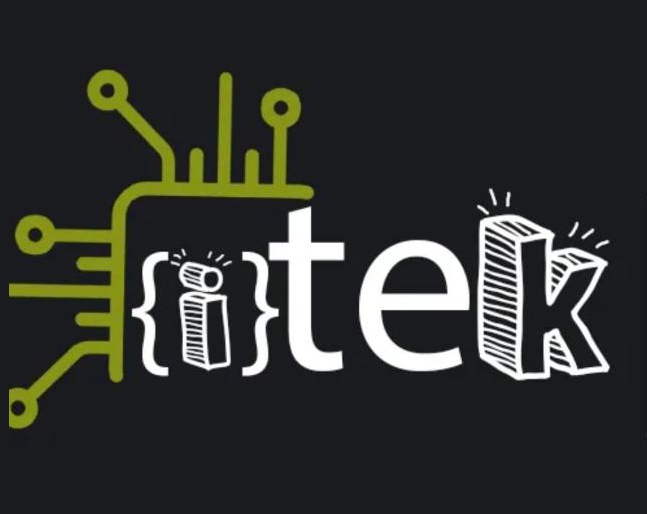
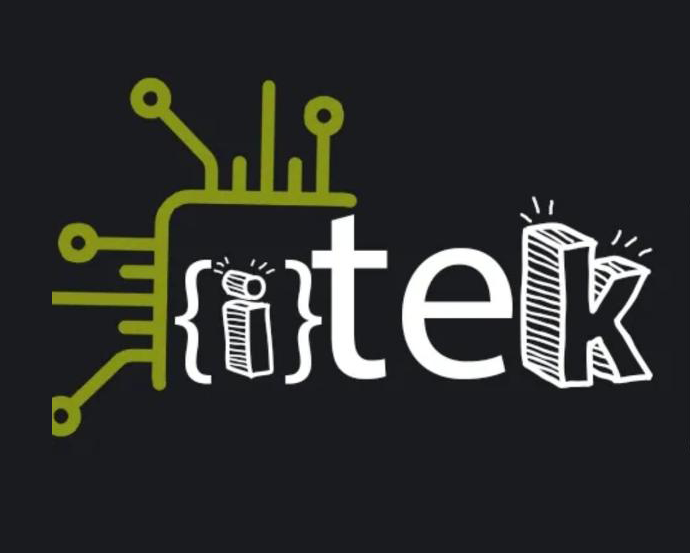
Add files via upload

Changed region(s): [[0.0, 0.1245, 0.9583, 0.8405]]

diff --git a/index.html b/index.html
@@ -22,7 +22,7 @@
 
 							<!-- Logo -->
 								<a href="index.html" class="logo">
-									<span class="symbol"><img src="images/banneritek.png" alt="" /></span><span class="title">Itek</span>
+									<span class="symbol" ><img src="images/banneritek.png"  alt="" /></span>
 								</a>
 
 							<!-- Nav -->
@@ -39,11 +39,7 @@
 					<nav id="menu">
 						<h2>Menu</h2>
 						<ul>
-							<li><a href="index.html">Home</a></li>
-							<li><a href="generic.html">Ipsum veroeros</a></li>
-							<li><a href="generic.html">Tempus etiam</a></li>
-							<li><a href="generic.html">Consequat dolor</a></li>
-							<li><a href="elements.html">Elements</a></li>
+							<li><a href="index.html">Inicio</a></li>
 						</ul>
 					</nav>
 
@@ -51,17 +47,25 @@
 					<div id="main">
 						<div class="inner">
 							<header>
-								<h1><a href="https://www.facebook.com/iteki3">Robotica Team Itek</a> /  <a href="https://www.facebook.com/itiztapalapa3">Tecnm Iztapalpa III</a>.</h1>
-								<p>En el club de robotica de robótica tenemos por objetivos fomentar la creatividad e innovación tecnológica, esto por medio de proyectos que elevan el nivel académico de las y los alumnos en las áreas de la progrmación y la electrónica, como son los cursos de robots de competencia entre los cuales mencinamos Minisumos, seguidor de linea y robots soccer, asi como tambien proyectos de innovación tecnólogica de impacto para la sociedad. De igual forma apoyamos a la integración y fomento ade las tecnologías con ayuda de talleres impartidos por nosotros mismos.
-								</p>
-								<h2>Un poco de nuestro recorrido</h2>
+								<font face="Helvetica"><h1><a>Robotica Team Itek</a><a> /</a>  <a>TecNM Iztapalapa III.</a></font></h1>
+								<font face="Helvetica"><p align="justify">En el club de robótica tenemos por objetivos fomentar la creatividad e innovación tecnológica, por medio de proyectos que elevan el nivel académico de las y los alumnos en las áreas de programación y la electrónica como son los cursos de robots de competencia entre los cuales mencionamos Minisumos, seguidor de línea y robots soccer, así como también proyectos de innovación tecnólogica de impacto para la sociedad. De igual manera apoyamos a la integración y fomento de las tecnologías con ayuda de talleres impartidos por el club.
+								</p></font>
+								<section>
+									<div align="center">
+
+									<iframe src="https://www.instagram.com/p/Cddfy4rL4kP/embed" width="400" height="460" frameborder="5" scrolling="si" allowtransparency="true"></iframe>	
+									<iframe align="right" src="https://www.facebook.com/plugins/page.php?href=https%3A%2F%2Fwww.facebook.com%2Fiteki3%2F&tabs=timeline&width=400&height=460&small_header=true&adapt_container_width=true&hide_cover=false&show_facepile=true&appId" width="400" height="460" style="border:none;overflow:hidden" scrolling="no" frameborder="0" allowfullscreen="true" allow="autoplay; clipboard-write; encrypted-media; picture-in-picture; web-share"></iframe>		
+								</div>
+									</section>	
+									<h1></h1>
+								<font face="Helvetica"><h1 align="center">Un poco de nuestro recorrido</h1></font>
 							</header>
 							<section class="tiles">
 								<article class="style1">
 									<span class="image">
 										<img src="images/pic01.jpg" alt="" />
 									</span>
-									<a href="generic.html">
+									<a href="">
 										<h2>Concurso de Minisumos, TecNM Campus Tlahuac</h2>
 										<div class="content">
 											<p>Siendo este nuestro primer concurso como club  en representación de nuestro TecNM Campus Iztapalapa III.</p>
@@ -72,10 +76,10 @@
 									<span class="image">
 										<img src="images/pic02.jpg" alt="" />
 									</span>
-									<a href="generic.html">
+									<a href="">
 										<h2>Feria del Libro y Robótica</h2>
 										<div class="content">
-											<p>con presentación de proyectos, donde compartimos un poco de los robots elaborados para las competencias.</p>
+											<p>Presentación de proyectos donde compartimos un poco de los robots elaborados para las competencias.</p>
 										</div>
 									</a>
 								</article>
@@ -83,7 +87,7 @@
 									<span class="image">
 										<img src="images/pic03.jpg" alt="" />
 									</span>
-									<a href="generic.html">
+									<a href="">
 										<h2>V Torneo de Robótica TESJI</h2>
 										<div class="content">
 											<p>En el Tecnológico de Estudios Superiores de Jilotepec, participando con seguidores de línea y obteniendo el segundo lugar de esta categoría.</p>
@@ -94,7 +98,7 @@
 									<span class="image">
 										<img src="images/pic04.jpg" alt="" />
 									</span>
-									<a href="generic.html">
+									<a href="">
 										<h2>Enrique Fernández Fassnacht </h2>
 										<div class="content">
 											<p>Director General del TecNM, visitas y exposición de proyectos como club de Robótica.</p>
@@ -105,10 +109,10 @@
 									<span class="image">
 										<img src="images/pic05.jpg" alt="" />
 									</span>
-									<a href="generic.html">
+									<a href="">
 										<h2>Taller de Introducción a Arduino</h2>
 										<div class="content">
-											<p>impartido por integrantes del club para nuestros compañeros de todas las carreras de nuestro TecNM Campus Iztapalapa III.</p>
+											<p>Impartido por integrantes del club para nuestros compañeros de todas las carreras de nuestro TecNM Campus Iztapalapa III.</p>
 										</div>
 									</a>
 								</article>
@@ -116,7 +120,7 @@
 									<span class="image">
 										<img src="images/pic06.jpg" alt="" />
 									</span>
-									<a href="generic.html">
+									<a href="">
 										<h2>Taller de corte láser</h2>
 										<div class="content">
 											<p>Impartido en nuestro Tecnológico por la presidenta del club.</p>
@@ -127,7 +131,7 @@
 									<span class="image">
 										<img src="images/pic07.jpg" alt="" />
 									</span>
-									<a href="generic.html">
+									<a href="">
 										<h2>Taller de programación en arduino básico</h2>
 										<div class="content">
 											<p>En colaboración con Fablab Ciudad Retoño impartido en sus instalaciones a personas de 12 años en adelante.</p>
@@ -138,7 +142,7 @@
 									<span class="image">
 										<img src="images/pic08.jpg" alt="" />
 									</span>
-									<a href="generic.html">
+									<a href="">
 										<h2>La voladora Radio</h2>
 										<div class="content">
 											<p>Entrevista sobre la inclusión de la mujer en las tendencias tecnológicas mundiales con La Voladora Radio</p>
@@ -149,7 +153,7 @@
 									<span class="image">
 										<img src="images/pic09.jpg" alt="" />
 									</span>
-									<a href="generic.html">
+									<a href="">
 										<h2>Entrevista al club por la Radio La Gargantua.</h2>
 										<div class="content">
 											<p>Explicamos el recorrido de cada uno de nosotros en como a infligido el club y nuestros planes de como nos veremos a futuro.</p>
@@ -160,7 +164,7 @@
 									<span class="image">
 										<img src="images/pic10.jpg" alt="" />
 									</span>
-									<a href="generic.html">
+									<a href="">
 										<h2>Bull-Tec-2022</h2>
 										<div class="content">
 											<p>1er evento de Competencia de Robótica en TecNM Campus Apizaco participando con seguidores de línea y minisumos. </p>
@@ -171,7 +175,7 @@
 									<span class="image">
 										<img src="images/pic11.jpg" alt="" />
 									</span>
-									<a href="generic.html">
+									<a href="">
 										<h2>Taller de electrónica y soldado básico</h2>
 										<div class="content">
 											<p>En colaboración con Fablab Ciudad Retoño impartido por el club en las instalaciones del Fablab.</p>
@@ -182,7 +186,7 @@
 									<span class="image">
 										<img src="images/pic12.jpg" alt="" />
 									</span>
-									<a href="generic.html">
+									<a href="">
 										<h2>Clara Brugada</h2>
 										<div class="content">
 											<p>Presentación de proyectos del club de robótica a la Alcaldesa de Iztapalapa.</p>
@@ -193,7 +197,7 @@
 									<span class="image">
 										<img src="images/pic13.jpg" alt="" />
 									</span>
-									<a href="generic.html">
+									<a href="">
 										<h2>Robot Rumble Sumomania</h2>
 										<div class="content">
 											<p>En el TecNM Campus Cuautla participando con robots minisumos y llegando a semifinales.
@@ -205,10 +209,10 @@
 									<span class="image">
 										<img src="images/pic14.jpg" alt="" />
 									</span>
-									<a href="generic.html">
+									<a href="">
 										<h2>Encuentro demostrativo de Robótica</h2>
 										<div class="content">
-											<p>Con el objetivo de fomentar la colaboración entre los estudiantes del Tecnológico Campus Tláhuac y el Tecnológico de Estudios Superiores de Chalco. Con robots seguidores de línea, minisumos y robots soccer.
+											<p>Estudiantes del Tecnológico Campus Tláhuac y el Tecnológico de Estudios Superiores de Chalco. Con robots seguidores de línea, minisumos y robots soccer.
 											</p>
 										</div>
 									</a>
@@ -217,7 +221,7 @@
 									<span class="image">
 										<img src="images/pic20.jpg" alt="" />
 									</span>
-									<a href="generic.html">
+									<a href="">
 										<h2>Fablab Ciudad Retoño.</h2>
 										<div class="content">
 											<p>Taller de electrónica, soldado y programación en arduino nivel básico a mujeres.</p>
@@ -228,7 +232,7 @@
 									<span class="image">
 										<img src="images/pic15.jpg" alt="" />
 									</span>
-									<a href="generic.html">
+									<a href="">
 										<h2>Evento GITMA Conference</h2>
 										<div class="content">
 											<p>Conferencia en el Tecnológico de Monterrey Campus Santa Fé</p>
@@ -239,10 +243,10 @@
 									<span class="image">
 										<img src="images/pic16.jpg" alt="" />
 									</span>
-									<a href="generic.html">
-										<h2>Conferencia en Tecnologico de Estudios Superioes de Chalco </h2>
+									<a href="">
+										<h2>Conferencia en el TESCHA</h2>
 										<div class="content">
-											<p>Durante su evento Expo Electrónica 2022 con "Reconocimiento de Imágenes e Inteligencia Artificial en Sistemas Mecatrónicos"</p>
+											<p>"Reconocimiento de Imágenes e Inteligencia Artificial en Sistemas Mecatrónicos"</p>
 										</div>
 									</a>
 								</article>
@@ -250,7 +254,7 @@
 									<span class="image">
 										<img src="images/pic17.jpg" alt="" />
 									</span>
-									<a href="generic.html">
+									<a href="">
 										<h2>Gnome Users and Developers Conference (GUADEC)</h2>
 										<div class="content">
 											<p>	Evento llevado a cabo por primera vez en Latinoamérica, en Guadalajara.</p>
@@ -262,10 +266,9 @@
 									<span class="image">
 										<img src="images/pic18.jpg" alt="" />
 									</span>
-									<a href="generic.html">
+									<a href="">
 										<h2>Talent Land, Expo Guadalajara.</h2>
-										<div class="content">
-											<p>		</p>
+										<div class="content">	
 										</div>
 									</a>
 								</article>
@@ -273,55 +276,91 @@
 									<span class="image">
 										<img src="images/pic19.jpg" alt="" />
 									</span>
-									<a href="generic.html">
+									<a href="">
 										<h2>Concurso Iberoamericano de Robótica Espacial 2022</h2>
 										<div class="content">
-											<p>El Programa Espacial Universitario y la Organización de Estados Iberoamericanos para la educación, la ciencia y cultura (OEI)	</p>
+											<p>Programa Espacial Universitario y Organización de Estados Iberoamericanos para la educación, ciencia y cultura (OEI)</p>
+										</div>
+									</a>
+								</article>
+								<article class="style4">
+									<span class="image">
+										<img src="images/pic21.jpg" alt="" />
+									</span>
+									<a href="">
+										<h2>Visita a Gentera</h2>
+										<div class="content">
+											<p></p>
+										</div>
+									</a>
+								</article>
+								<article class="style5">
+									<span class="image">
+										<img src="images/pic22.jpg" alt="" />
+									</span>
+									<a href="">
+										<h2>Visita a Google</h2>
+										<div class="content">
+											<p></p>
+										</div>
+									</a>
+								</article>
+								<article class="style6">
+									<span class="image">
+										<img src="images/pic23.jpg" alt="" />
+									</span>
+									<a href="">
+										<h2>Visita AWS</h2>
+										<div class="content">
+											<p></p>
+										</div>
+									</a>
+								</article>
+								<article class="style6">
+									<span class="image">
+										<img src="images/pic25.jpg" alt="" />
+									</span>
+									<a href="">
+										<h2>Visita Platzi</h2>
+										<div class="content">
+											<p></p>
 										</div>
 									</a>
 								</article>
 							</section>
 						</div>
 					</div>
+					
+
 
 				<!-- Footer -->
 					<footer id="footer">
-						<div class="inner">
+						
+							
 							<section>
-								<h2>Get in touch</h2>
+								
+								<h2></h2>
 								<form method="post" action="#">
 									<div class="fields">
 										<div class="field half">
-											<input type="text" name="name" id="name" placeholder="Name" />
-										</div>
-										<div class="field half">
-											<input type="email" name="email" id="email" placeholder="Email" />
-										</div>
-										<div class="field">
-											<textarea name="message" id="message" placeholder="Message"></textarea>
-										</div>
-									</div>
-									<ul class="actions">
-										<li><input type="submit" value="Send" class="primary" /></li>
-									</ul>
+										
 								</form>
 							</section>
 							<section>
-								<h2>Follow</h2>
+								<div align="center">
+								<h2>Siguenos en nuestras redes sociales y nuestros proyectos</h2>
+							</div>
 								<ul class="icons">
+									<div align="center">
 									<li><a href="" class="icon brands style2 fa-twitter"><span class="label">Twitter</span></a></li>
 									<li><a href="https://www.facebook.com/iteki3" class="icon brands style2 fa-facebook-f"><span class="label">Facebook</span></a></li>
 									<li><a href="https://www.instagram.com/robotic_team_itek/" class="icon brands style2 fa-instagram"><span class="label">Instagram</span></a></li>
-									<li><a href="" class="icon brands style2 fa-dribbble"><span class="label">Dribbble</span></a></li>
 									<li><a href="https://github.com/iteki3" class="icon brands style2 fa-github"><span class="label">GitHub</span></a></li>
-									<li><a href="#" class="icon brands style2 fa-500px"><span class="label">500px</span></a></li>
-									<li><a href="#" class="icon solid style2 fa-phone"><span class="label">Phone</span></a></li>
 									<li><a href="itek@iztapalapa3.tecnm.mx" class="icon solid style2 fa-envelope"><span class="label">Email</span></a></li>
+								</div>
 								</ul>
 							</section>
-							<ul class="copyright">
-								<li>&copy; Untitled. All rights reserved</li><li>Design: <a href="http://html5up.net">HTML5 UP</a></li>
-							</ul>
+							
 						</div>
 					</footer>
 

diff --git a/assets/css/main.css b/assets/css/main.css
@@ -2855,8 +2855,8 @@ input, select, textarea {
 
 				#header .logo .symbol img {
 					display: block;
-					width: 2em;
-					height: 2em;
+					width: 14em;
+					height: 12em;
 				}
 
 		#header nav {
